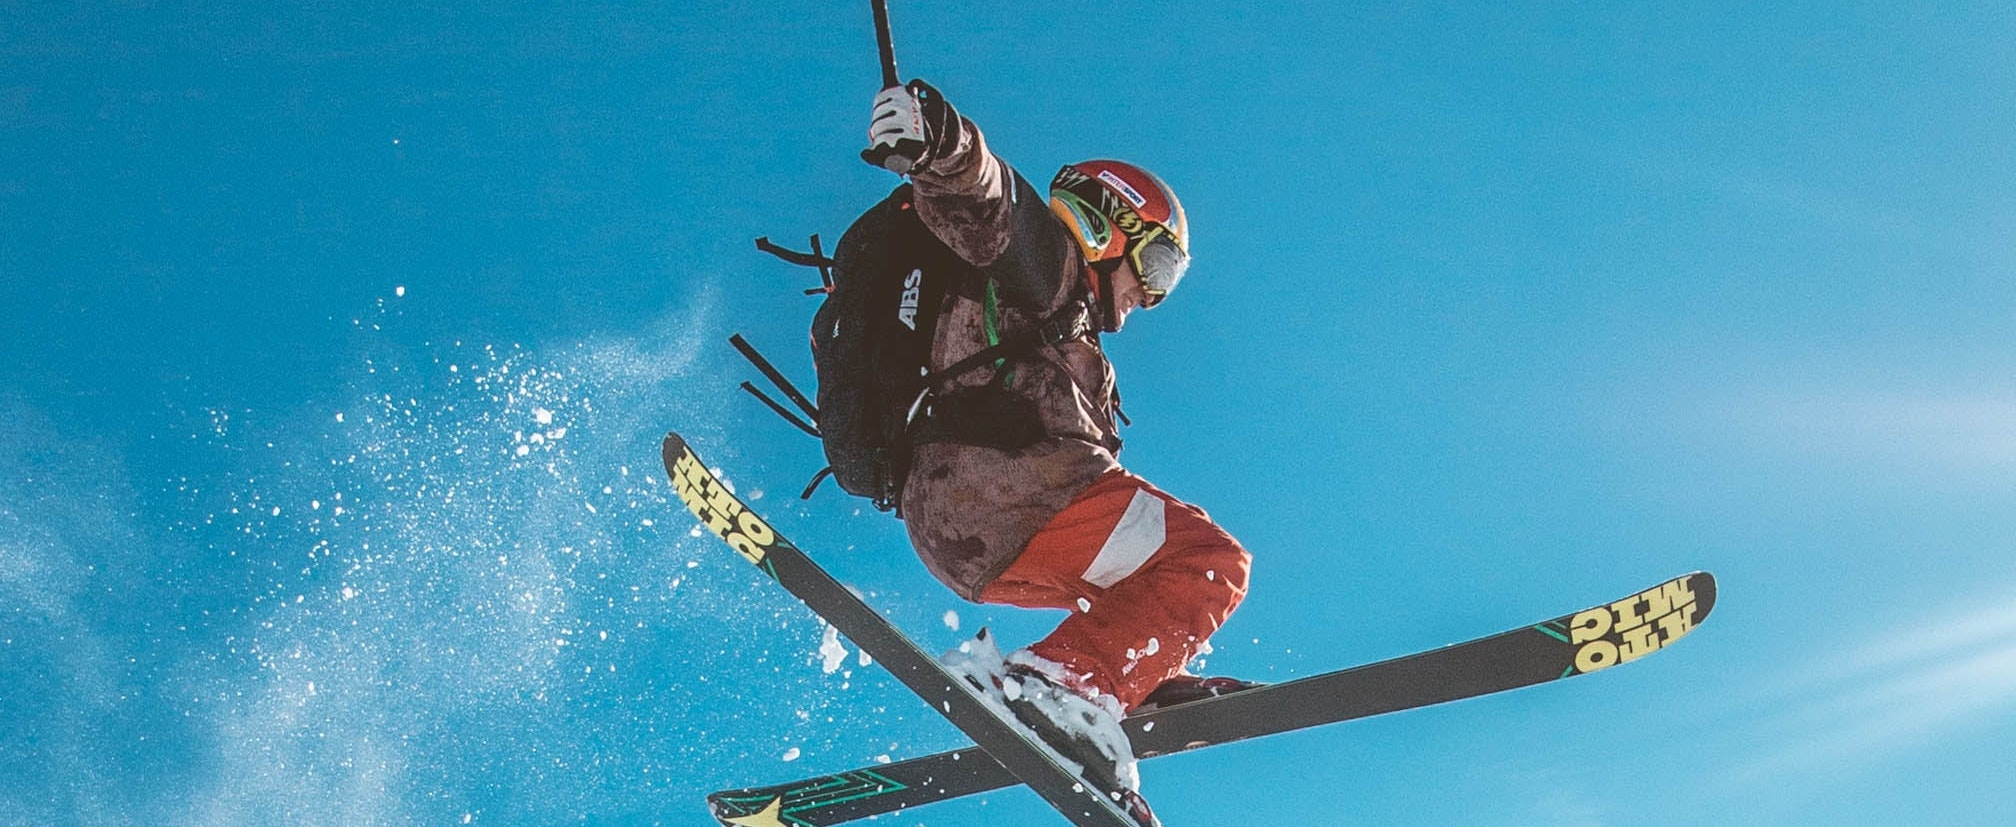
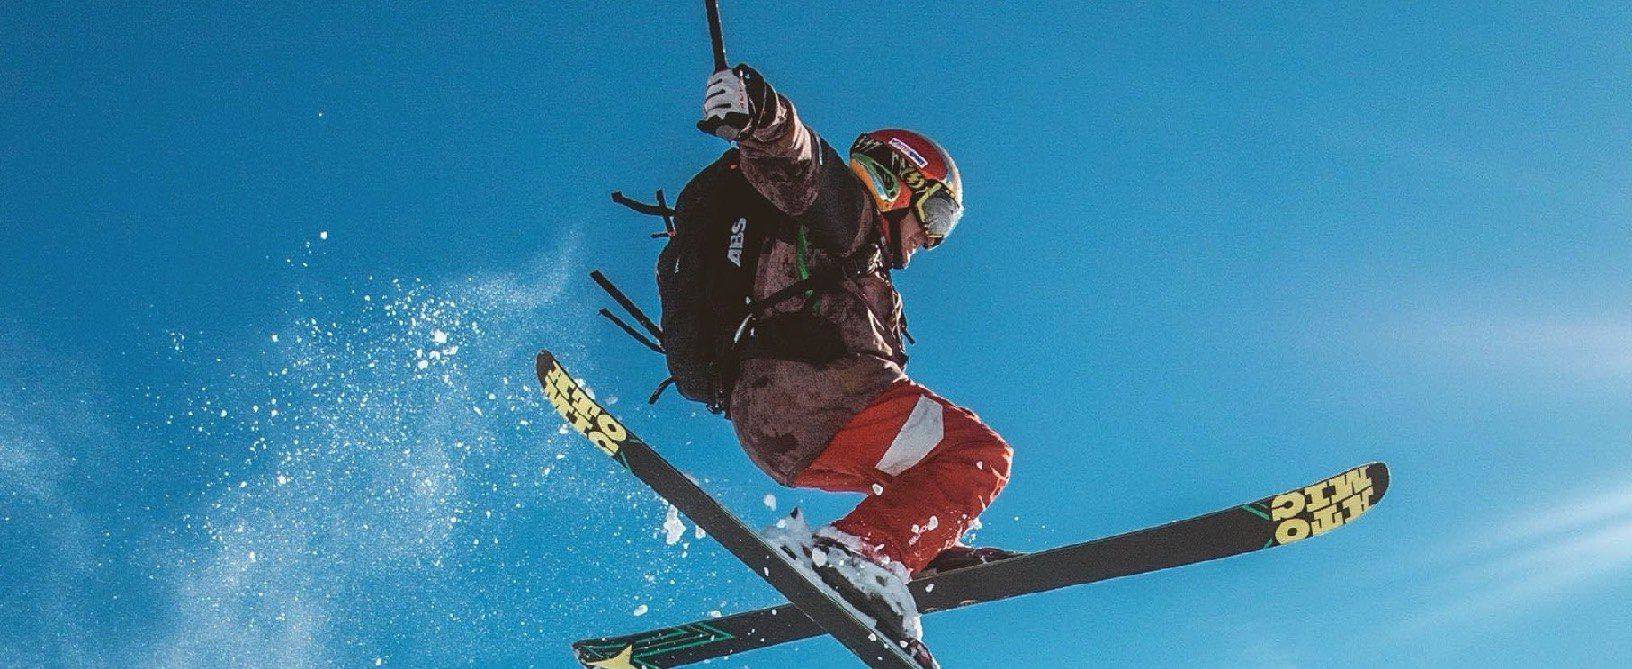
update resizing images
resizing large images for performance

Changed region(s): [[0.0, 0.0, 1.0, 1.0]]

diff --git a/index.html b/index.html
@@ -47,10 +47,10 @@
       <br>
       <br>
       <div class="Mainmenu">
-        <div  id="women"><div id="hovereffect"><a href="mens-jacket.html" ><img width="80%" src="images/womensJacket.png" alt="womans section"> </a></div> </div>
+        <div  id="women"><div id="hovereffect"><a href="mens-jacket.html" ><img width="80%" src="images/womensJacket.jpg" alt="womans section"> </a></div> </div>
         <div  id="men"> <div  id="hovereffect"><a href="mens-jacket.html" ><img width="80%" src="images/mensjacket.png" alt="mens section"></a> </div></div>
         <div  id="kids"><div id="hovereffect"><a href="mens-jacket.html" ><img width="80%" src="images/kidsJacket.png" alt="kids section"></a> </div></div>
-        <div  id="bla"> <div id="hovereffect"><a href="mens-jacket.html"><img width="80%" src="images/NewForWinter.png" alt="new for winter section"> </a></div></div>
+        <div  id="bla"> <div id="hovereffect"><a href="mens-jacket.html"><img width="80%" src="images/NewForWinter.jpg" alt="new for winter section"> </a></div></div>
       </div>
       <br>
       <br>

diff --git a/about.html b/about.html
@@ -53,7 +53,7 @@
         <br>
         <br>
         <br>
-<div id="text-center"><img src="images/aboutuspic.png" alt="about us images" width="40%" height="40%" ></div>
+<div id="text-center"><img src="images/aboutuspic.jpg" alt="about us images" width="40%" height="40%" ></div>
 <br>
 <br>
 <br>
